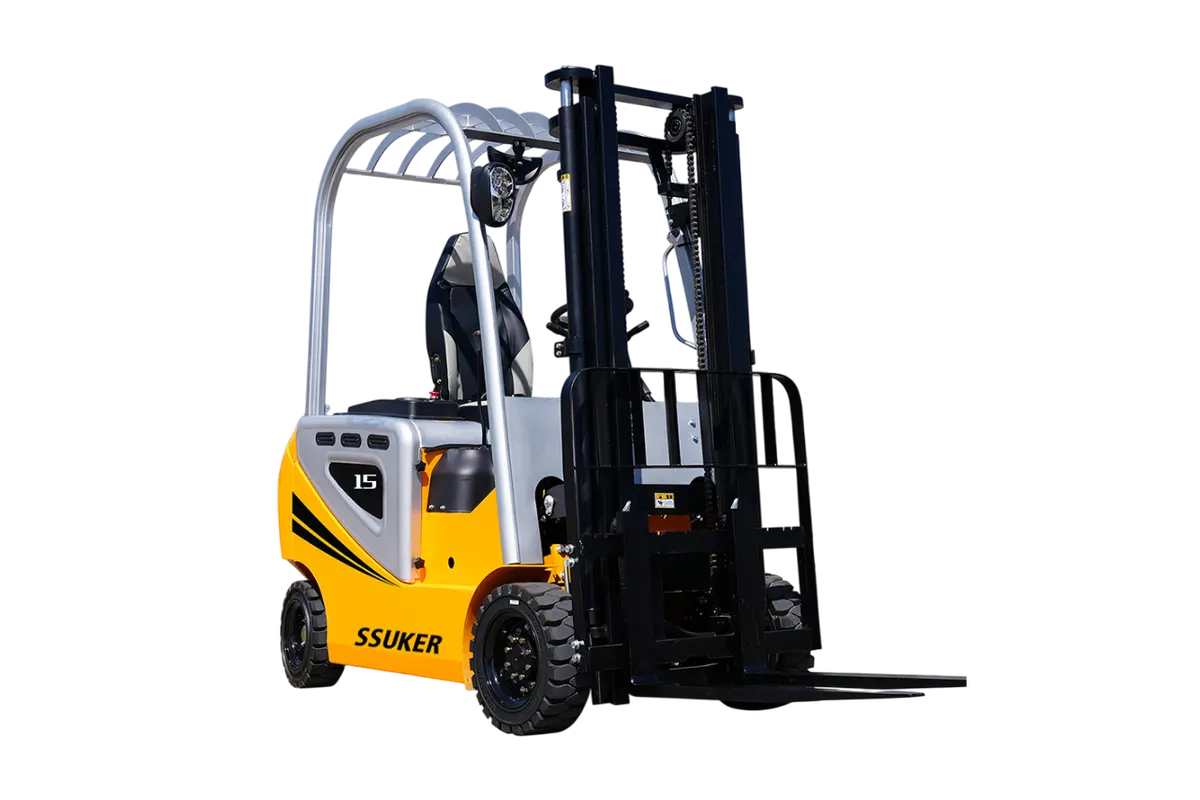
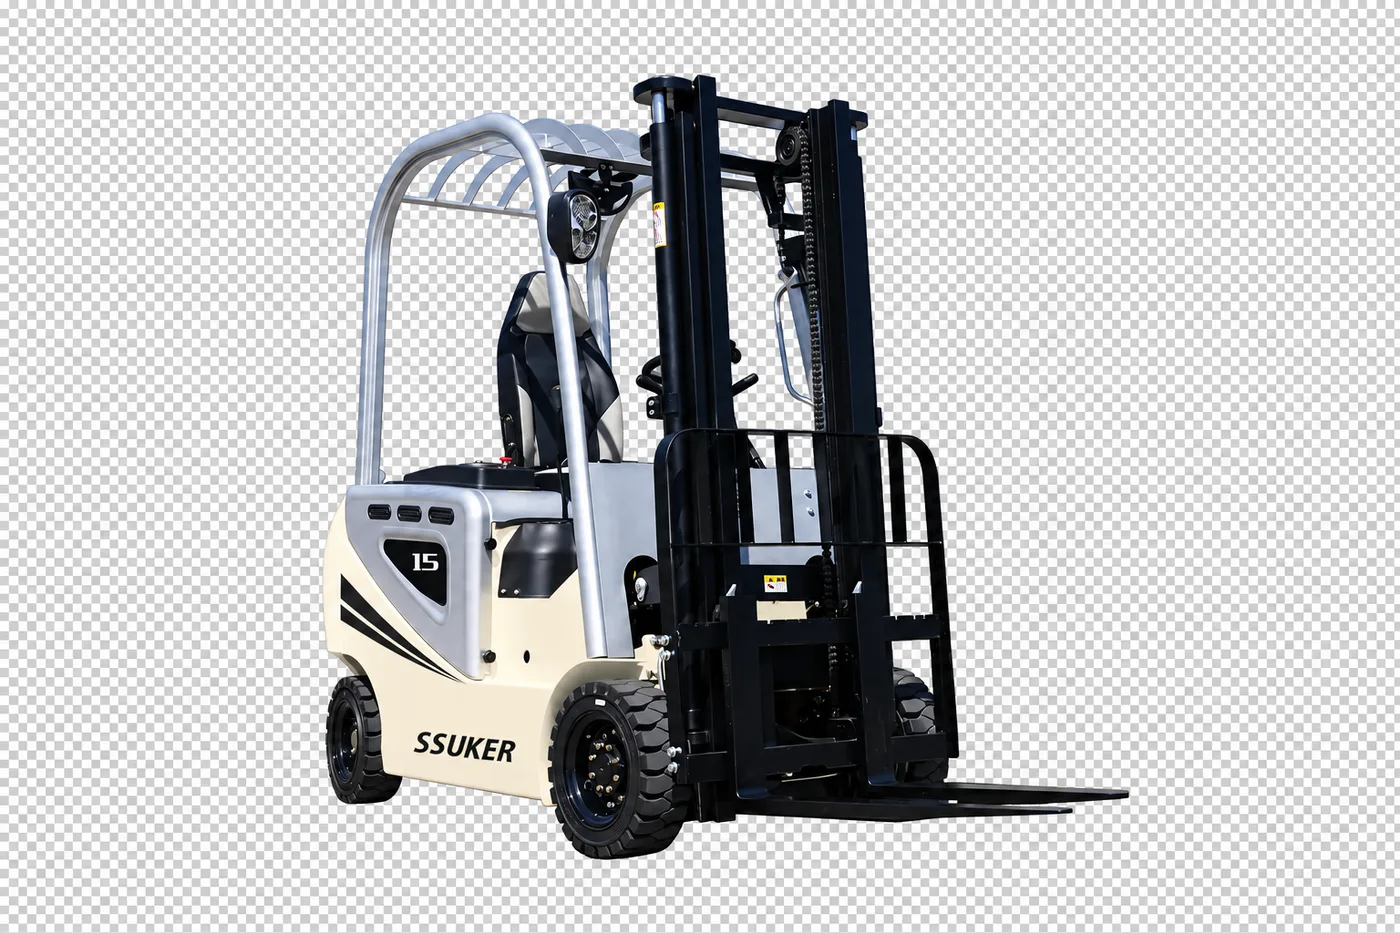
Tighten company copy, Koreanize specs, fix nav hover, and refresh premium product photos.

diff --git a/src/data/products.ts b/src/data/products.ts
@@ -71,19 +71,19 @@ const sharedBaseSpecs: SpecRow[] = [
   {
     label: '작업시간',
     values: {
-      '1.5': 'Work continuously for 6-7 hours',
-      '2.0': 'Work continuously for 5-6 hours',
-      '2.5': 'Work continuously for 7-8 hours',
-      '3.0': 'Work continuously for 5-6 hours',
+      '1.5': '연속 작업 6~7시간',
+      '2.0': '연속 작업 5~6시간',
+      '2.5': '연속 작업 7~8시간',
+      '3.0': '연속 작업 5~6시간',
     },
   },
   {
     label: '충전시간',
     values: {
-      '1.5': '220V 8 hours (Smart Fast Charge 옵션)',
-      '2.0': '220V 8 hours (Smart Fast Charge 옵션)',
-      '2.5': '220V 10 hours (Smart Fast Charge 옵션)',
-      '3.0': '220V 8 hours (Smart Fast Charge 옵션)',
+      '1.5': '220V 8시간 (스마트 급속충전 옵션)',
+      '2.0': '220V 8시간 (스마트 급속충전 옵션)',
+      '2.5': '220V 10시간 (스마트 급속충전 옵션)',
+      '3.0': '220V 8시간 (스마트 급속충전 옵션)',
     },
   },
   {
@@ -101,19 +101,19 @@ const sharedBaseSpecs: SpecRow[] = [
   {
     label: '조향모드',
     values: {
-      '1.5': 'Hydraulic microcomputer controller',
-      '2.0': 'Hydraulic microcomputer controller',
-      '2.5': 'Hydraulic microcomputer controller',
-      '3.0': 'Hydraulic microcomputer controller',
+      '1.5': '유압 마이크로컴퓨터 컨트롤러',
+      '2.0': '유압 마이크로컴퓨터 컨트롤러',
+      '2.5': '유압 마이크로컴퓨터 컨트롤러',
+      '3.0': '유압 마이크로컴퓨터 컨트롤러',
     },
   },
   {
     label: '리프팅 높이',
     values: {
-      '1.5': '3000mm(customizable height)',
-      '2.0': '3000mm(customizable height)',
-      '2.5': '3000mm(customizable height)',
-      '3.0': '3000mm(customizable height)',
+      '1.5': '3000mm(높이 맞춤 가능)',
+      '2.0': '3000mm(높이 맞춤 가능)',
+      '2.5': '3000mm(높이 맞춤 가능)',
+      '3.0': '3000mm(높이 맞춤 가능)',
     },
   },
   {
@@ -128,28 +128,28 @@ const sharedBaseSpecs: SpecRow[] = [
   {
     label: '브레이크 방식',
     values: {
-      '1.5': 'Oil brake + manipulator brake',
-      '2.0': 'Oil brake + manipulator brake',
-      '2.5': 'Oil brake + manipulator brake',
-      '3.0': 'Oil brake + manipulator brake',
+      '1.5': '오일 브레이크 + 조작 브레이크',
+      '2.0': '오일 브레이크 + 조작 브레이크',
+      '2.5': '오일 브레이크 + 조작 브레이크',
+      '3.0': '오일 브레이크 + 조작 브레이크',
     },
   },
   {
     label: '구동모터',
     values: {
-      '1.5': '4kW full AC permanent magnet motor',
-      '2.0': '5kW full AC permanent magnet motor',
-      '2.5': '9kW full AC permanent magnet motor',
-      '3.0': '11kW full AC permanent magnet motor',
+      '1.5': '4kW 풀 AC 영구자석 모터',
+      '2.0': '5kW 풀 AC 영구자석 모터',
+      '2.5': '9kW 풀 AC 영구자석 모터',
+      '3.0': '11kW 풀 AC 영구자석 모터',
     },
   },
   {
     label: '리프팅모터',
     values: {
-      '1.5': '4kW full AC permanent magnet motor',
-      '2.0': '5kW full AC permanent magnet motor',
-      '2.5': '7.5kW full AC permanent magnet motor',
-      '3.0': '10kW full AC permanent magnet motor',
+      '1.5': '4kW 풀 AC 영구자석 모터',
+      '2.0': '5kW 풀 AC 영구자석 모터',
+      '2.5': '7.5kW 풀 AC 영구자석 모터',
+      '3.0': '10kW 풀 AC 영구자석 모터',
     },
   },
   {
@@ -171,25 +171,25 @@ const standardHighlights: TonHighlight[] = [
     ton: '1.5',
     title: '1.5 톤 (보급형)',
     runtime: '사용시간 6~7 시간 (200Ah 배터리)',
-    equipment: '사이드 쉬프트 기본 장착',
+    equipment: '사이드시프트 기본 장착',
   },
   {
     ton: '2.0',
     title: '2.0 톤 (보급형)',
     runtime: '사용시간 5~6 시간 (200Ah 배터리)',
-    equipment: '사이드 쉬프트 기본 장착',
+    equipment: '사이드시프트 기본 장착',
   },
   {
     ton: '2.5',
     title: '2.5 톤 (보급형)',
     runtime: '사용시간 7~8 시간 (300Ah 배터리)',
-    equipment: '사이드 쉬프트 + 포크 포지션 기본 장착',
+    equipment: '사이드시프트 + 포크 포지션 기본 장착',
   },
   {
     ton: '3.0',
     title: '3.0 톤 (보급형)',
     runtime: '사용시간 5~6 시간 (300Ah 배터리)',
-    equipment: '사이드 쉬프트 + 포크 포지션 기본 장착',
+    equipment: '사이드시프트 + 포크 포지션 기본 장착',
   },
 ]
 
@@ -198,25 +198,25 @@ const premiumHighlights: TonHighlight[] = [
     ton: '1.5',
     title: '1.5 톤 (고급형)',
     runtime: '사용시간 6~7 시간 (200Ah 배터리)',
-    equipment: '사이드 쉬프트 기본 장착',
+    equipment: '사이드시프트 기본 장착',
   },
   {
     ton: '2.0',
     title: '2.0 톤 (고급형)',
     runtime: '사용시간 5~6 시간 (200Ah 배터리)',
-    equipment: '사이드 쉬프트 기본 장착',
+    equipment: '사이드시프트 기본 장착',
   },
   {
     ton: '2.5',
     title: '2.5 톤 (고급형)',
     runtime: '사용시간 7~8 시간 (280Ah 배터리)',
-    equipment: '사이드 쉬프트 + 포크 포지션 기본 장착',
+    equipment: '사이드시프트 + 포크 포지션 기본 장착',
   },
   {
     ton: '3.0',
     title: '3.0 톤 (고급형)',
     runtime: '사용시간 5~6 시간 (280Ah 배터리)',
-    equipment: '사이드 쉬프트 + 포크 포지션 기본 장착',
+    equipment: '사이드시프트 + 포크 포지션 기본 장착',
   },
 ]
 
@@ -237,10 +237,10 @@ const productSeries: ProductSeries[] = [
     specs: [
       ...sharedBaseSpecs.slice(0, 13),
       withBattery({
-        '1.5': '200AH brand lithium battery',
-        '2.0': '200AH brand lithium battery',
-        '2.5': '300AH brand lithium battery',
-        '3.0': '300AH brand lithium battery',
+        '1.5': '200Ah 브랜드 리튬 배터리',
+        '2.0': '200Ah 브랜드 리튬 배터리',
+        '2.5': '300Ah 브랜드 리튬 배터리',
+        '3.0': '300Ah 브랜드 리튬 배터리',
       }),
       ...sharedBaseSpecs.slice(13),
     ],
@@ -262,10 +262,10 @@ const productSeries: ProductSeries[] = [
     specs: [
       ...sharedBaseSpecs.slice(0, 13),
       withBattery({
-        '1.5': '200AH brand lithium battery',
-        '2.0': '200AH brand lithium battery',
-        '2.5': '280AH brand lithium battery',
-        '3.0': '280AH brand lithium battery',
+        '1.5': '200Ah 브랜드 리튬 배터리',
+        '2.0': '200Ah 브랜드 리튬 배터리',
+        '2.5': '280Ah 브랜드 리튬 배터리',
+        '3.0': '280Ah 브랜드 리튬 배터리',
       }),
       ...sharedBaseSpecs.slice(13),
     ],

diff --git a/src/data/company.ts b/src/data/company.ts
@@ -1,15 +1,12 @@
 export const companyContent = {
   eyebrow: 'ABOUT US',
   headline: '전통 카운터 밸런스 전문기업인 슈커는\n전기지게차를 바라보며 걸어왔습니다.',
-  lead: '혁신적인 기술력과 신뢰로 물류 산업의 미래를 이끌어가는 기업\n우리는 SSUKER의 힘을 믿습니다.',
+  lead: '1.5~3톤 전기지게차로\n현장의 효율과 안전을 함께 생각합니다.',
   paragraphs: [
-    'SSUKER는 설립 이래, 첨단 전기지게차 분야에서 지속적인 혁신과 탁월한 기술력으로 국내 물류 산업의 발전을 선도해오고 있습니다. 환경 친화적이고 효율적인 물류 솔루션을 제공하는 것을 목표로, 최고의 품질과 서비스를 통해 고객 만족을 최우선으로 추구합니다.',
-    "SSUKER는 '지속 가능한 미래를 위한 혁신'이라는 기업 철학 아래, 친환경 전기지게차 기술 개발에 매진하고 있습니다. 우리는 환경 보호와 경제적 효율성이 함께 가야 한다고 믿으며, 이를 실현하기 위한 기술 개발에 끊임없이 투자하고 있습니다.",
-    'SSUKER는 최첨단 기술을 적용한 다양한 전기지게차 라인업을 보유하고 있습니다. 고효율 배터리 시스템, 스마트 제어 기술, 인체공학적 설계를 통해 작업 효율성과 안전성을 극대화하였습니다. 또한, IoT 기반의 원격 모니터링 시스템을 도입하여 실시간 장비 관리와 예방 정비가 가능합니다.',
-    '국내 시장에서의 성공을 기반으로, SSUKER는 아시아, 유럽, 북미 등 글로벌 시장으로의 진출을 적극적으로 추진하고 있습니다. 세계 각국의 다양한 물류 환경에 최적화된 솔루션을 제공함으로써, 글로벌 전기지게차 시장의 리더로 성장하고자 합니다.',
-    'SSUKER는 기업의 사회적 책임을 중요시하며, 환경 보호 활동, 지역 사회 공헌 프로그램, 청년 일자리 창출 등 다양한 사회 공헌 활동을 실천하고 있습니다. 우리의 기술과 제품이 더 나은 사회와 환경을 만드는 데 기여할 수 있도록 최선을 다하고 있습니다.',
-    'SSUKER는 단순한 전기지게차 제조사를 넘어, 종합 물류 솔루션 기업으로 도약하고자 합니다. 인공지능, 빅데이터, 자율주행 기술 등을 접목한 차세대 물류 시스템 개발을 통해, 물류 산업의 디지털 혁신을 주도하겠습니다.',
-    'SSUKER와 함께라면, 더 효율적이고 지속 가능한 물류의 미래를 만들어 갈 수 있습니다.',
+    'SSUKER(슈커)는 OPTICO CO., LTD.의 전기지게차 브랜드입니다. 1.5톤부터 3톤까지 보급형·고급형 라인업을 중심으로, 물류 현장에 맞는 실용적인 장비를 제공합니다.',
+    '고효율 배터리, AC 컨트롤러 기반의 주행·리프팅 제어, 인체공학적 운전석 설계를 통해 작업 효율과 운전자 부담을 함께 고려합니다. 자동 상승·하강 속도 제한, 사이드시프트 장착 유압시스템 등 현장에서 바로 체감되는 기능을 제품합니다.',
+    '제품 상담부터 부품별 무상 AS 안내까지, 도입 전후 문의에 신속히 대응합니다. 전화·온라인 상담·방문 안내를 통해 필요한 톤수와 사양을 함께 확인하실 수 있습니다.',
+    'SSUKER와 함께 현장에 맞는 전기지게차 선택을 시작해 보세요. 상담이 필요하시면 언제든 문의해 주시기 바랍니다.',
   ],
 }
 

diff --git a/src/components/layout/SiteHeader.vue b/src/components/layout/SiteHeader.vue
@@ -53,8 +53,12 @@ onUnmounted(() => {
               {{ item.label }}
             </RouterLink>
             <ul v-if="'children' in item" class="nav__sub">
-              <li v-for="child in item.children" :key="child.to">
-                <RouterLink :to="child.to">{{ child.label }}</RouterLink>
+              <li class="nav__sub-panel">
+                <ul>
+                  <li v-for="child in item.children" :key="child.to">
+                    <RouterLink :to="child.to">{{ child.label }}</RouterLink>
+                  </li>
+                </ul>
               </li>
             </ul>
           </li>
@@ -170,19 +174,42 @@ onUnmounted(() => {
 
 .nav__sub {
   position: absolute;
-  top: calc(100% + 0.75rem);
+  top: 100%;
   left: 0;
   min-width: 15rem;
-  padding: 0.65rem;
-  background: var(--bg-elevated);
-  border: 1px solid var(--line);
-  box-shadow: var(--shadow-soft);
+  padding: 0.75rem 0 0;
+  background: transparent;
+  border: none;
+  box-shadow: none;
   opacity: 0;
   pointer-events: none;
   transform: translateY(6px);
   transition:
     opacity var(--duration-fast) var(--ease-out),
     transform var(--duration-fast) var(--ease-out);
+  transition-delay: 150ms;
+}
+
+.nav__sub::before {
+  content: '';
+  position: absolute;
+  top: 0;
+  left: 0;
+  right: 0;
+  height: 0.75rem;
+}
+
+.nav__sub-panel {
+  padding: 0.65rem;
+  background: var(--bg-elevated);
+  border: 1px solid var(--line);
+  box-shadow: var(--shadow-soft);
+}
+
+.nav__sub-panel ul {
+  margin: 0;
+  padding: 0;
+  list-style: none;
 }
 
 .nav__item.has-children:hover .nav__sub,
@@ -190,6 +217,7 @@ onUnmounted(() => {
   opacity: 1;
   pointer-events: auto;
   transform: translateY(0);
+  transition-delay: 0s;
 }
 
 .nav__sub a {

diff --git a/src/data/site.ts b/src/data/site.ts
@@ -53,7 +53,7 @@ export const heroIndexes = [
   {
     key: 'INNOVATION',
     title: 'INNOVATION',
-    body: '혁신적인\nAC컨트롤러 시스템',
+    body: '혁신적인\nAC 컨트롤러 시스템',
   },
   {
     key: 'POWER',
@@ -78,7 +78,7 @@ export const machineFeatures = [
   {
     id: 'efficiency',
     title: 'EFFICIENCY',
-    body: '사이드시프터 장착 유압시스템\n효율적인 작업 향상',
+    body: '사이드시프트 장착 유압시스템\n작업 효율 향상',
     imageKey: 'machine3' as const,
   },
 ]

diff --git a/src/components/home/MachineSection.vue b/src/components/home/MachineSection.vue
@@ -16,7 +16,7 @@ const features = machineFeatures.map((item) => ({
         eyebrow="MACHINE"
         title="혁신적인 테크놀로지와
 강력한 서비스"
-        description="SSUKER만의 기능을 무한대로 활용할 수 있도록 도와 드립니다."
+        description="SSUKER만의 기능을 충분히 활용할 수 있도록 도와드립니다."
       />
 
       <div class="machine__list">
